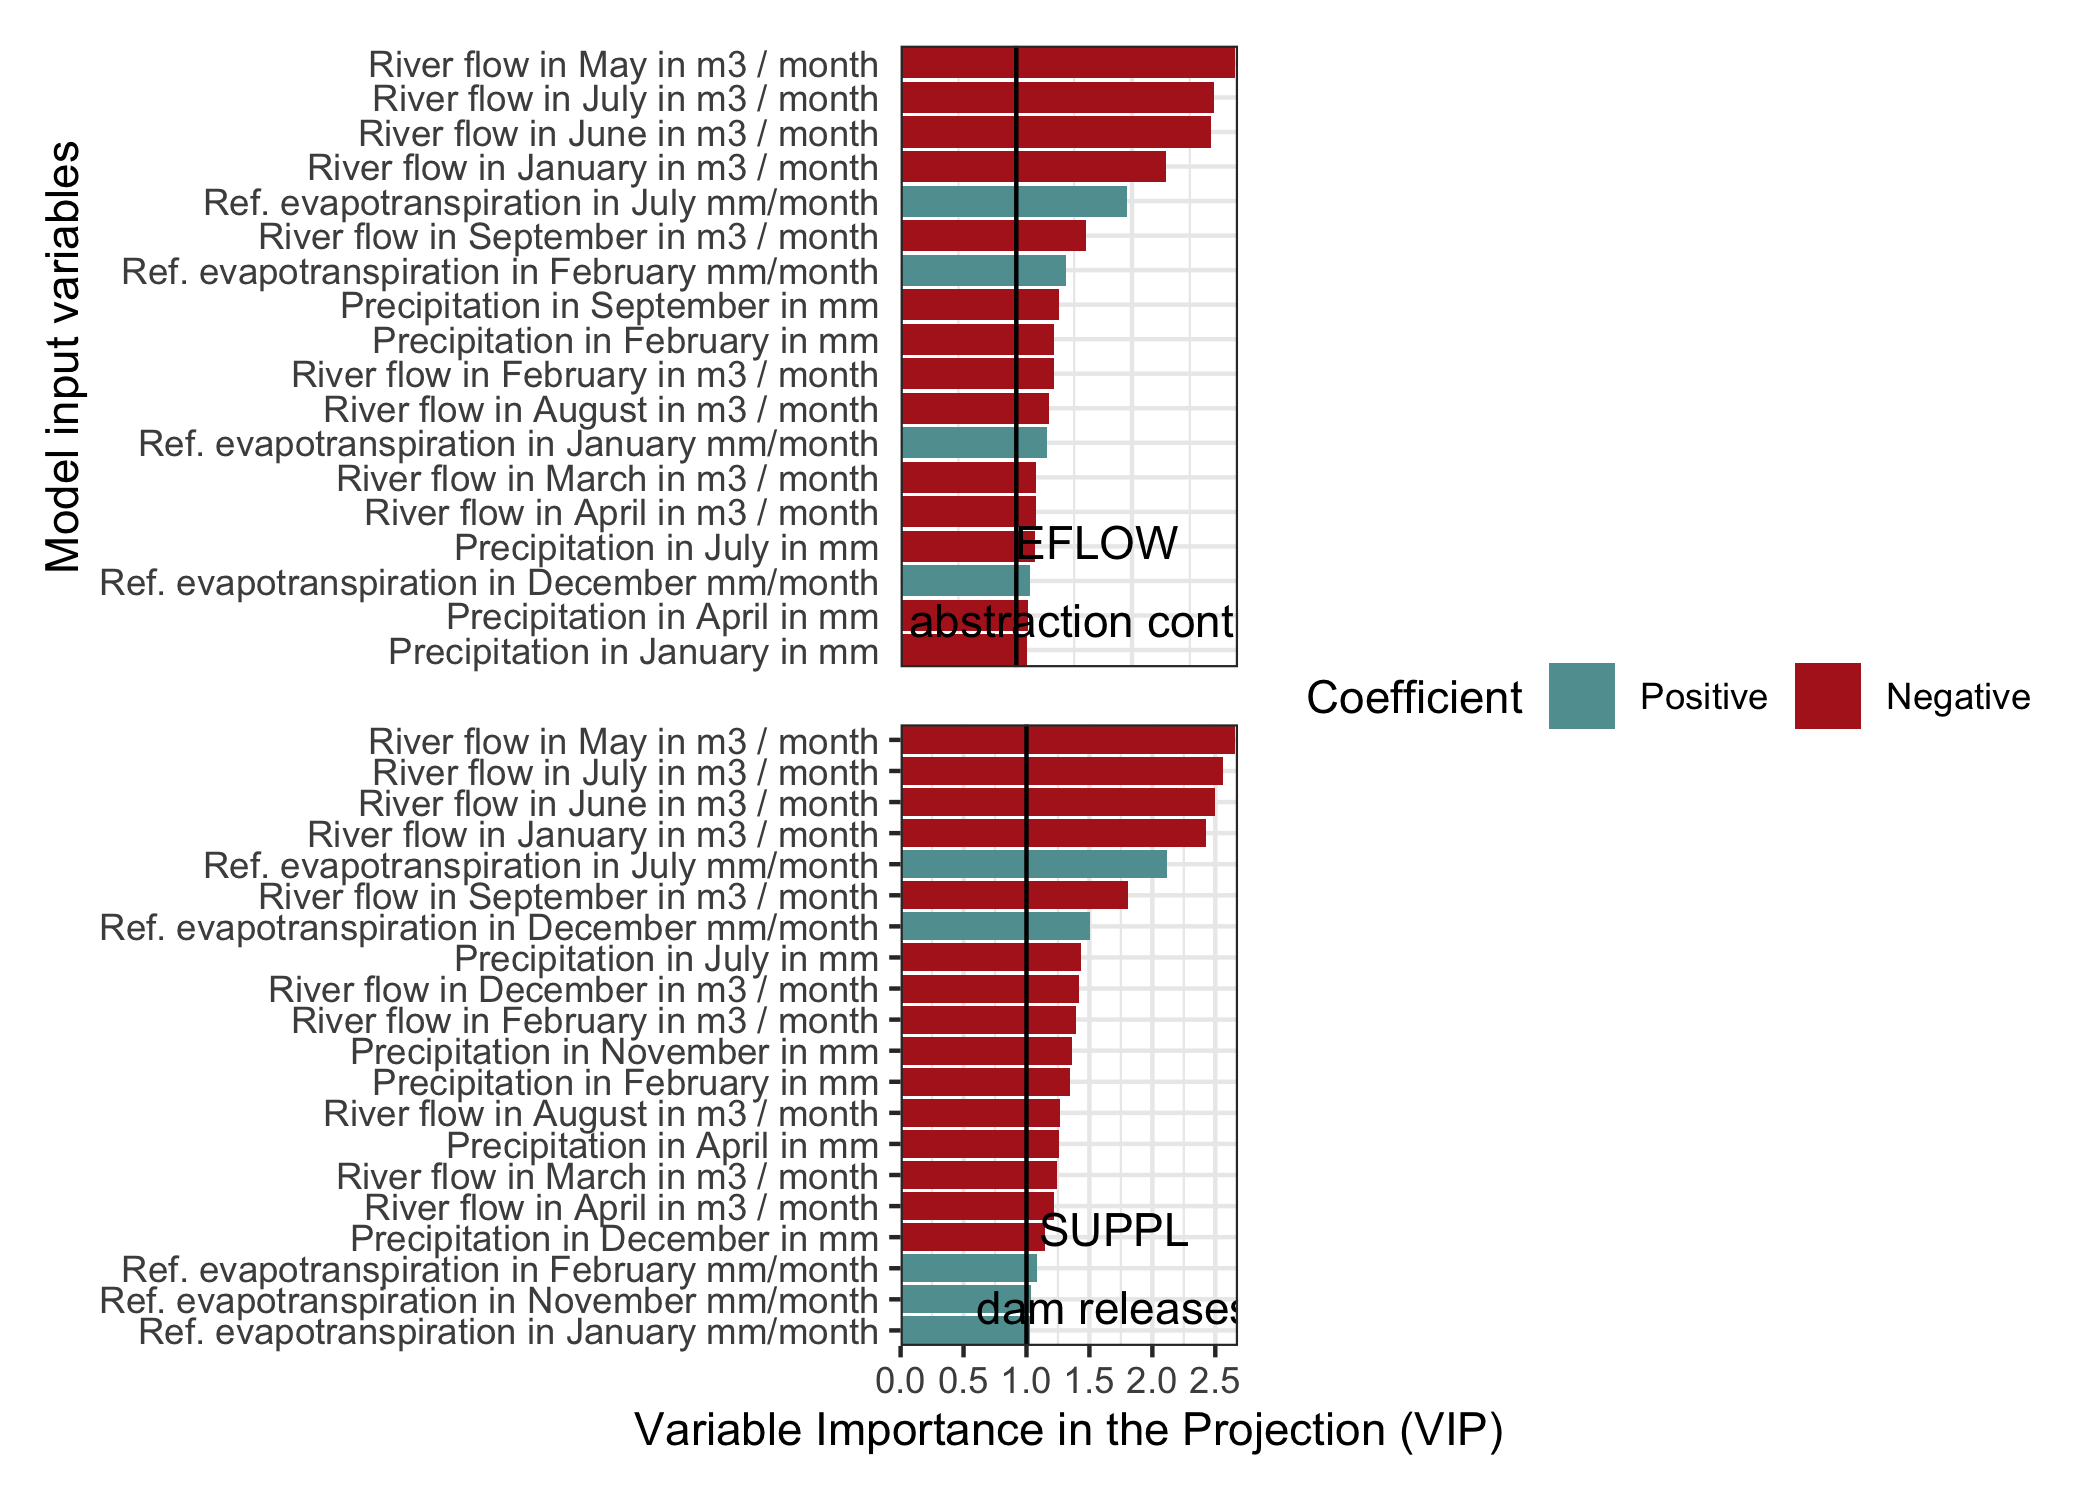
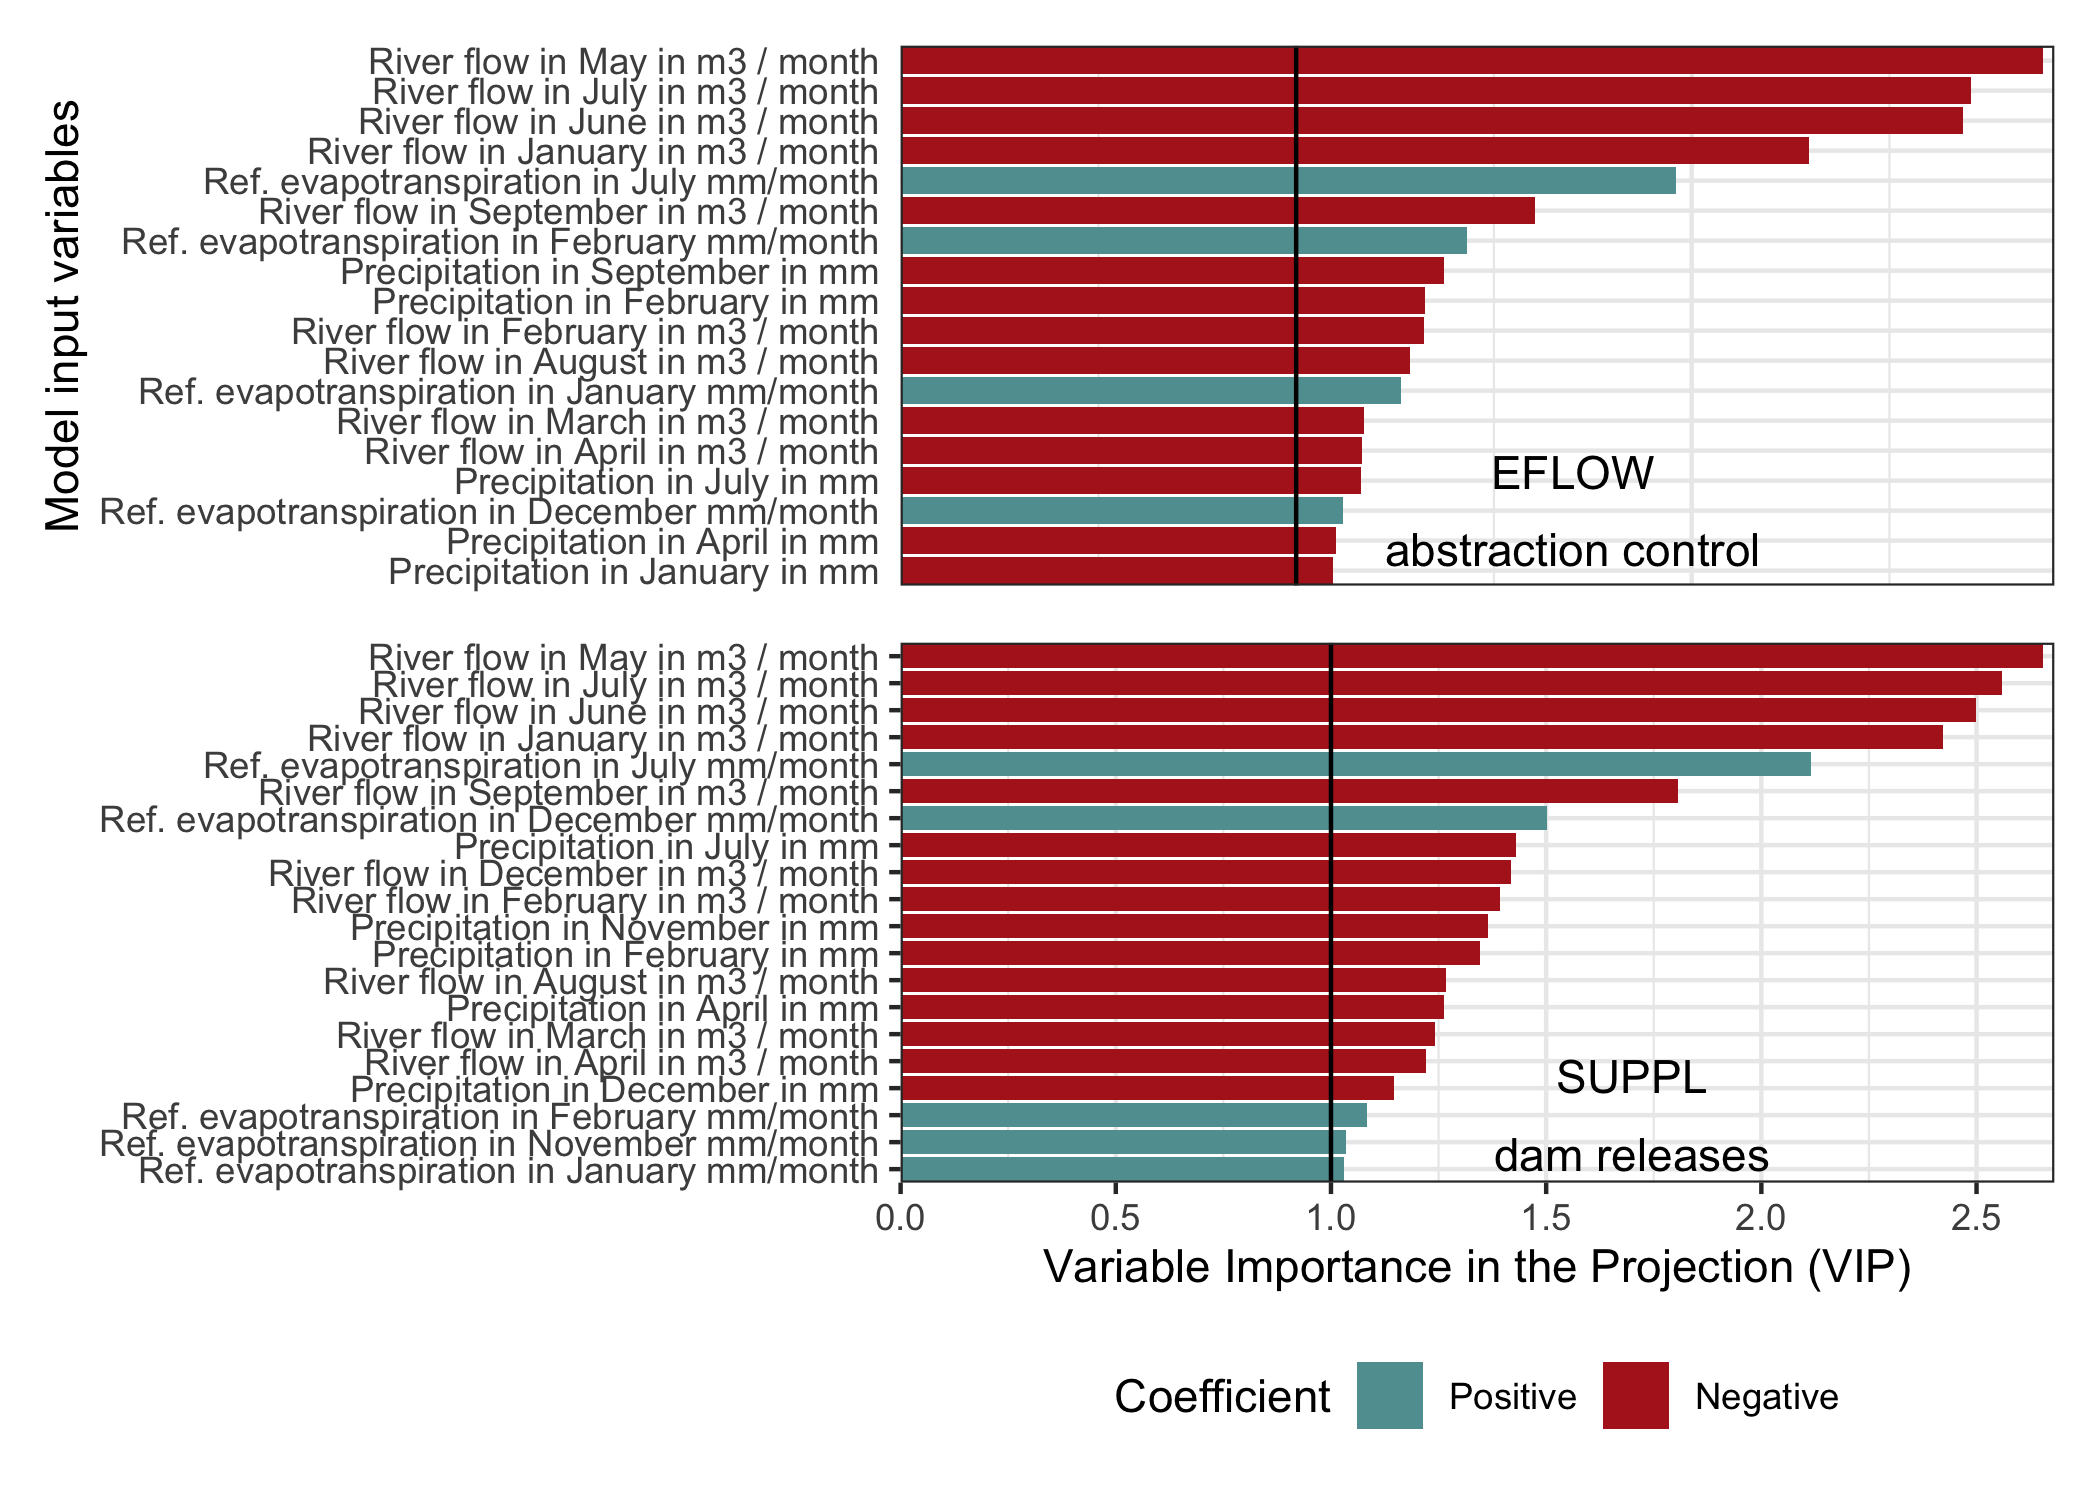
rebuild supplementary with new Fig 4 and 5

diff --git a/index.md b/index.md
@@ -465,7 +465,8 @@ Fig_PLS_EFLOW_crop_water_gap <- plot_pls(pls_result_2,
                    paste("abstraction control")))) + 
           theme(axis.text.x = element_blank(),
           axis.ticks = element_blank(),
-          axis.title.x = element_blank())
+          axis.title.x = element_blank()) +    
+                    ggplot2::theme(legend.position="bottom") 
 
 ### SUPPL dam release - Livelihoods e-flows
 
@@ -480,22 +481,23 @@ Fig_PLS_SUPPL_dam_release_crop_water_gap <- plot_pls(pls_result_3,
                             x_axis_name = "Variable Importance in the Projection (VIP)")+ 
   annotate(geom="text", x=1.7, y=3, 
            label=expression(atop("SUPPL", 
-                   paste("dam releases"))))  
+                   paste("dam releases"))))  +    
+                    ggplot2::theme(legend.position="bottom") 
 
 
 library(patchwork)
+
       Fig_PLS_EFLOW_crop_water_gap +
       Fig_PLS_SUPPL_dam_release_crop_water_gap +
-      plot_layout(ncol = 1, guides = "collect") +    
-                    ggplot2::theme(legend.position="bottom") 
+      plot_layout(ncol = 1, guides = "collect") &
+  theme(legend.position = "bottom")
 ```
 
 ![](index_files/figure-gfm/pls-crop-gap-1.png)<!-- -->
 
 ``` r
 
-
-ggsave("figures/Fig_5_sensitivity.png", width=10, height=7)
+ggsave("figures/Fig_5_sensitivity.png", width=7, height=7)
 ```
 
 ## Expected Value of Perfect Information
@@ -531,9 +533,9 @@ between the baseline UNRES and EFLOW scenarios.
 summary(results_evpi$Mean_Crop_water_gap_difference_2_vs_1)
 #>    variable         expected_gain        EVPI_do    EVPI_dont            EVPI  
 #>  Length:71          Min.   :0.01259   Min.   :0   Min.   :0.00000   Min.   :0  
-#>  Class :character   1st Qu.:0.08977   1st Qu.:0   1st Qu.:0.04847   1st Qu.:0  
-#>  Mode  :character   Median :0.11260   Median :0   Median :0.10167   Median :0  
-#>                     Mean   :0.09655   Mean   :0   Mean   :0.08023   Mean   :0  
+#>  Class :character   1st Qu.:0.08977   1st Qu.:0   1st Qu.:0.04963   1st Qu.:0  
+#>  Mode  :character   Median :0.11260   Median :0   Median :0.10110   Median :0  
+#>                     Mean   :0.09649   Mean   :0   Mean   :0.08018   Mean   :0  
 #>                     3rd Qu.:0.11498   3rd Qu.:0   3rd Qu.:0.11486   3rd Qu.:0  
 #>                     Max.   :0.16607   Max.   :0   Max.   :0.16607   Max.   :0  
 #>                     NA's   :12                                                 
